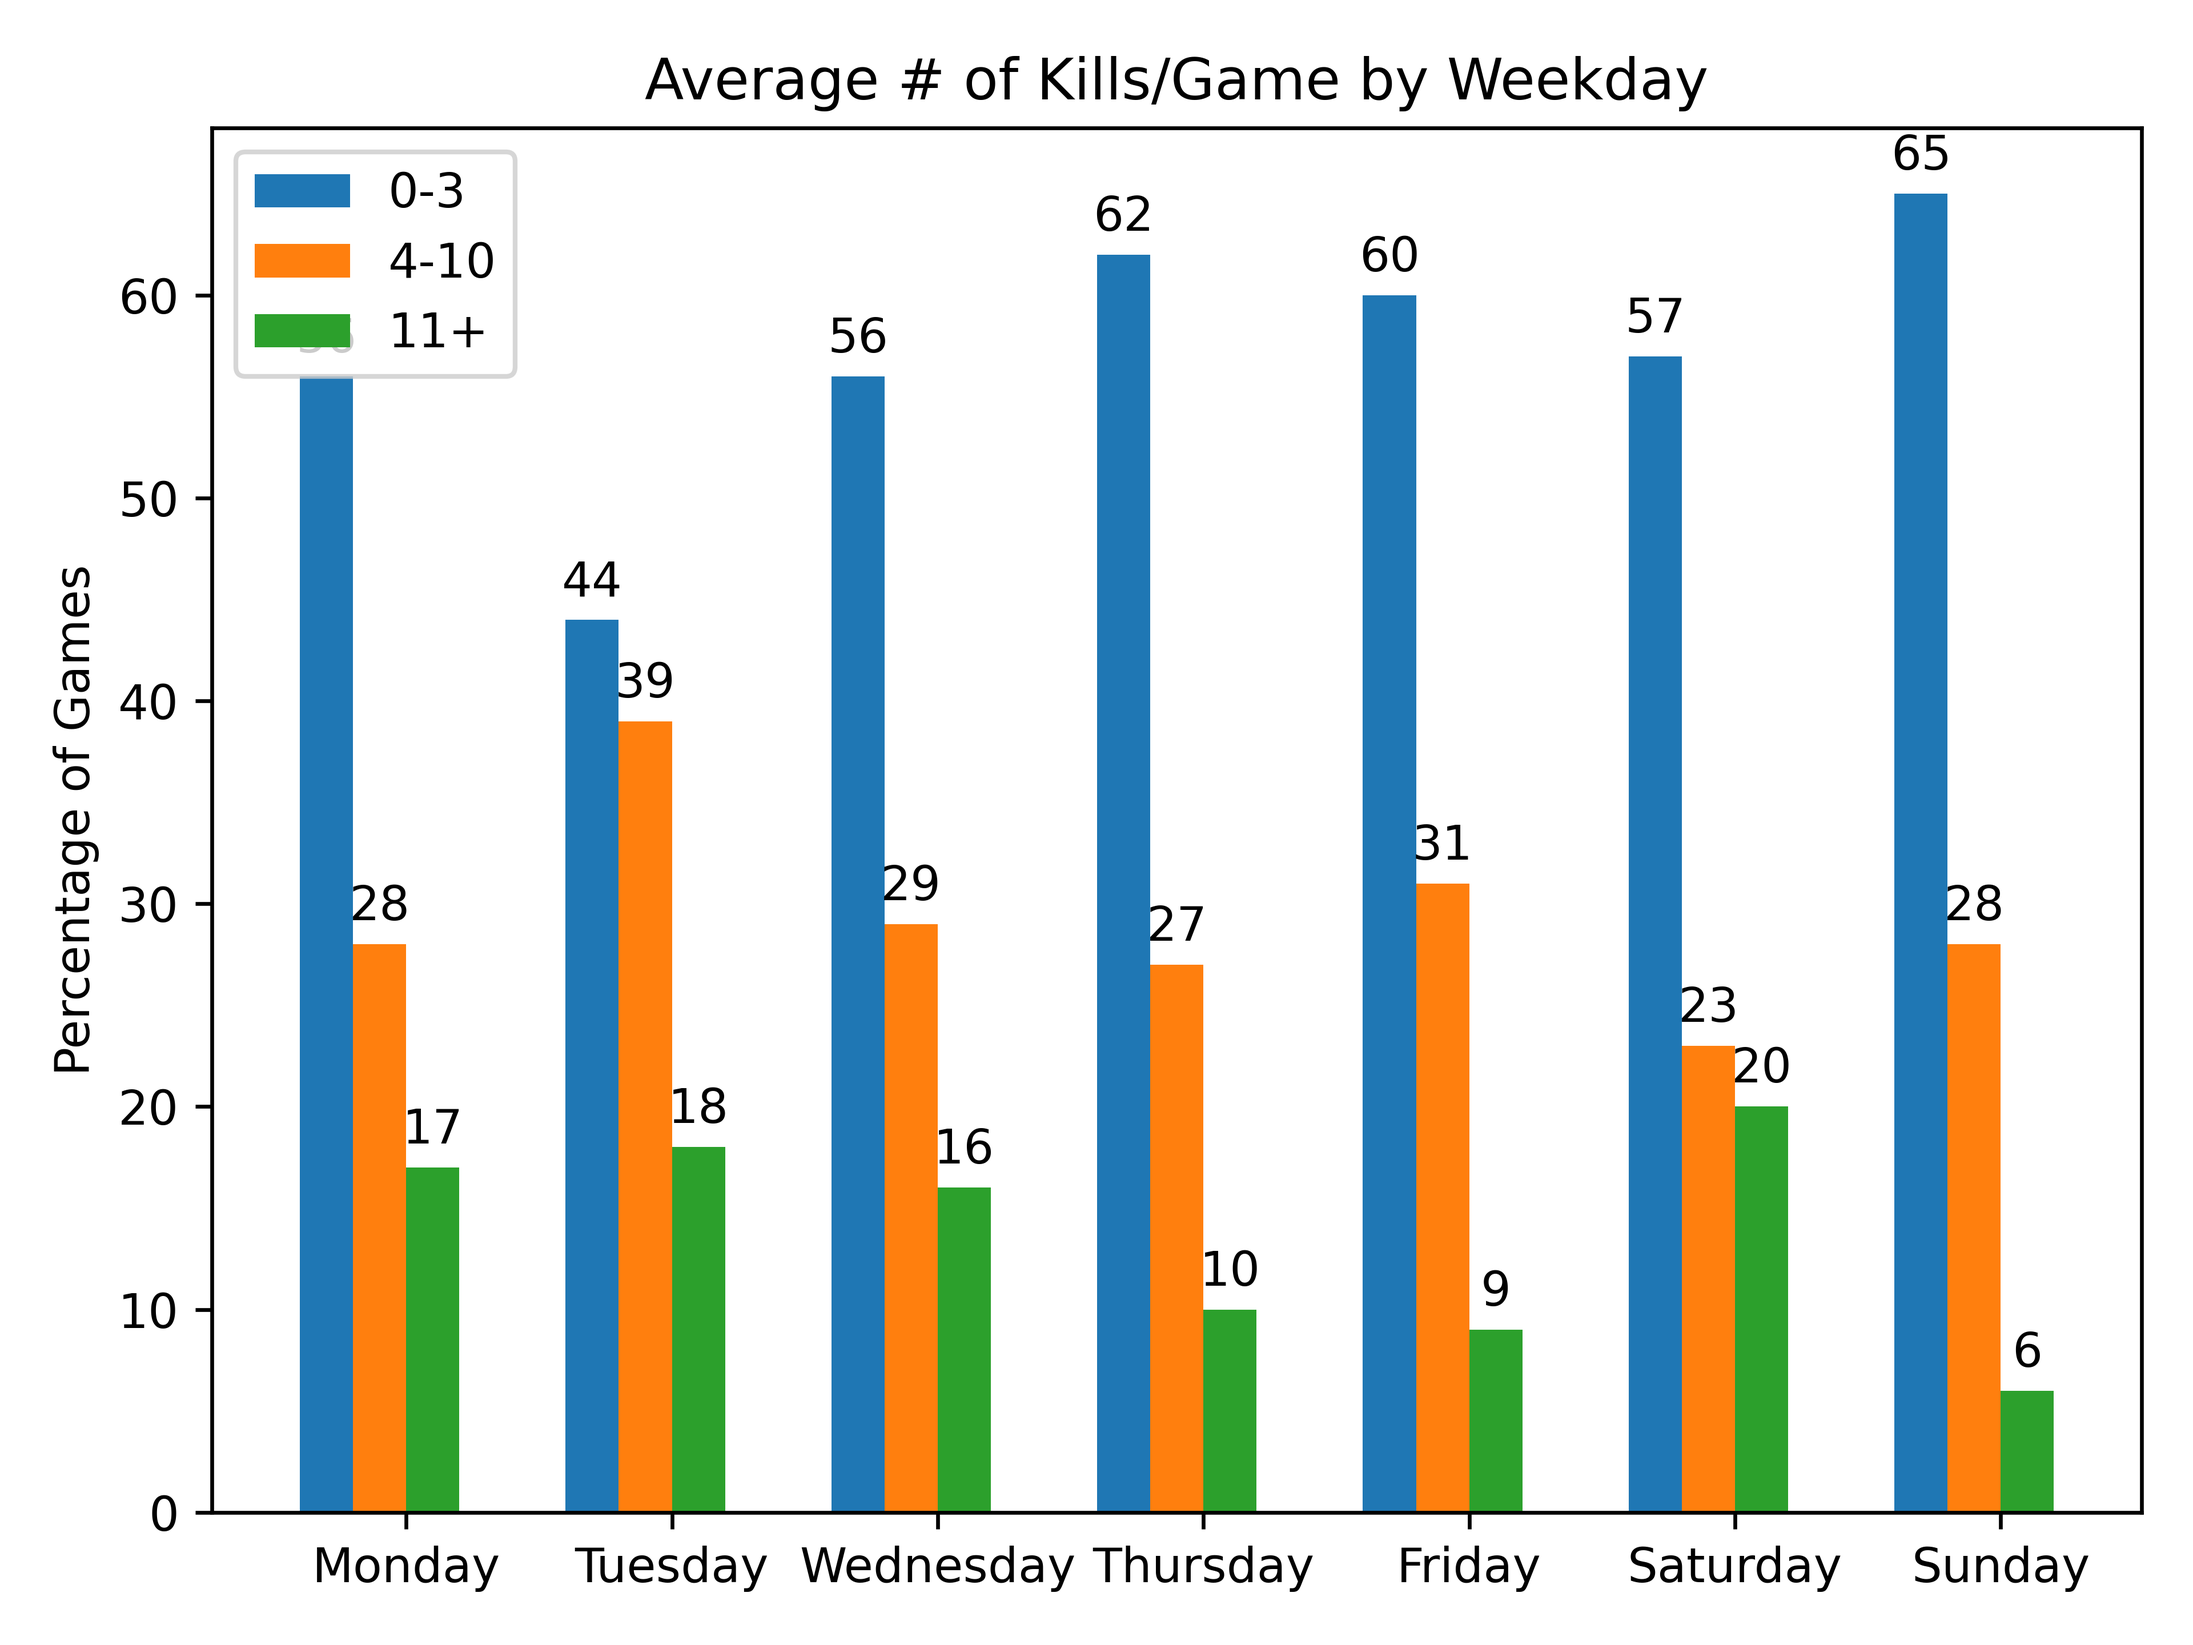
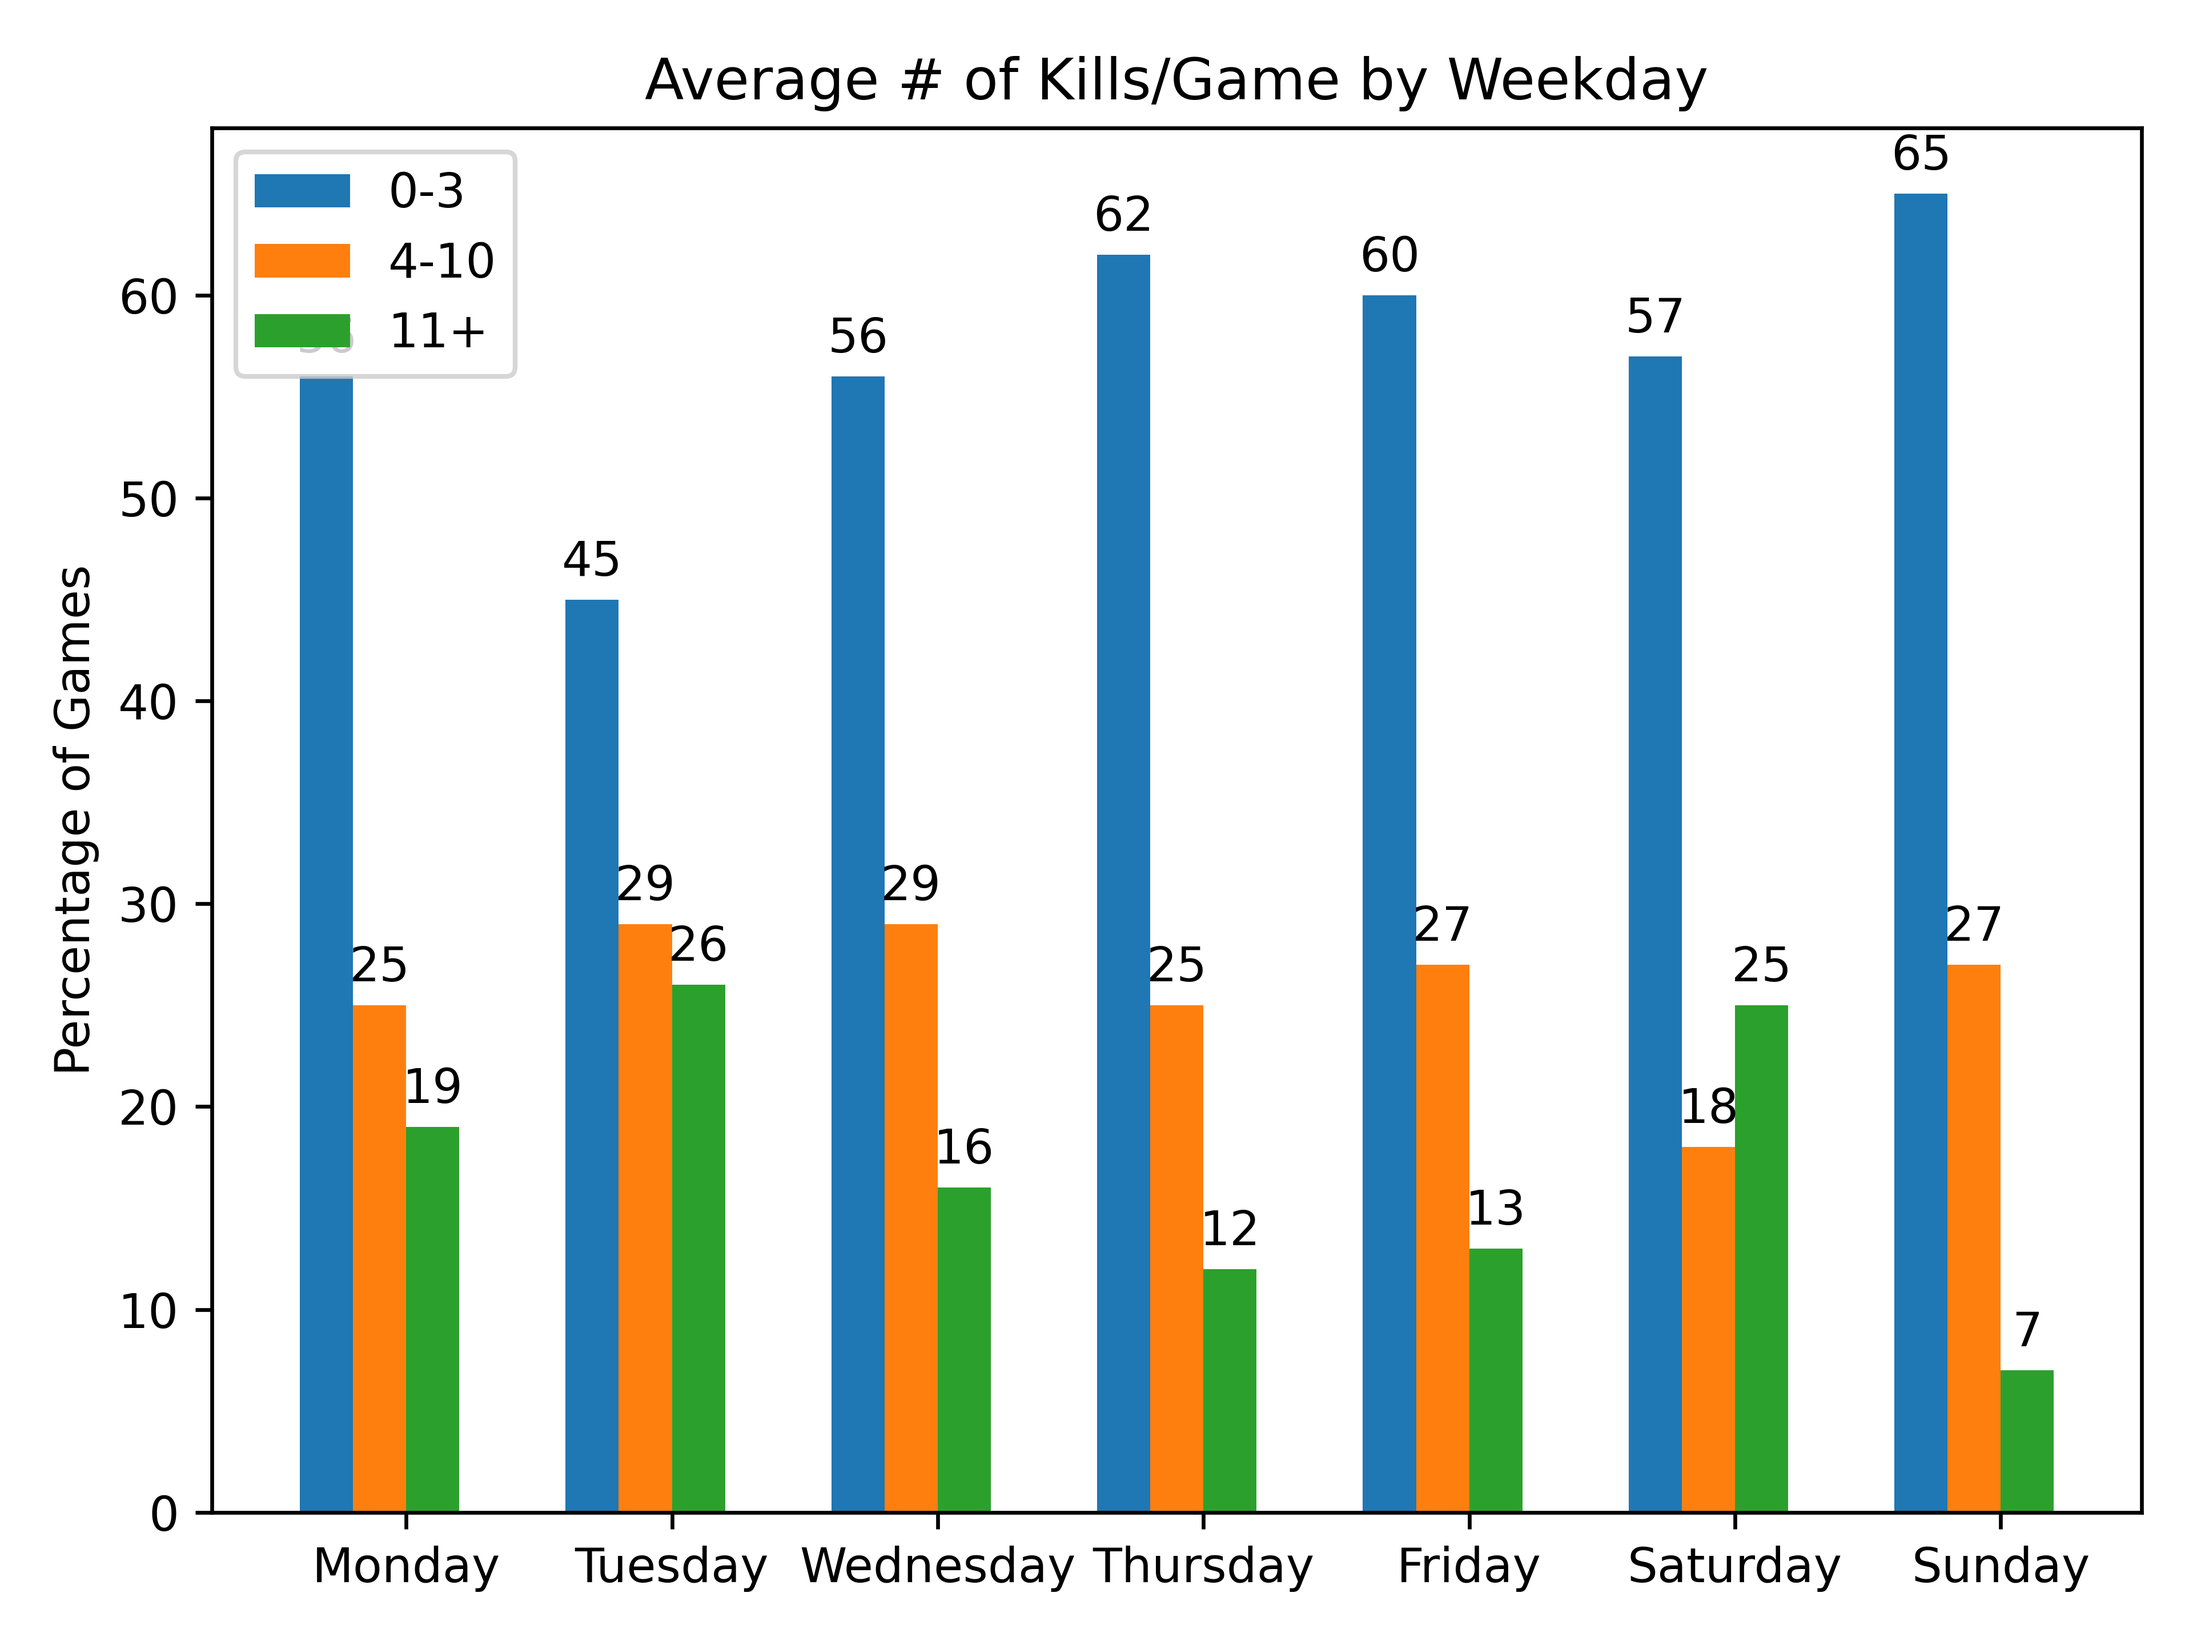
cutoff control, new map images, playercount in readme

diff --git a/babagstats.py b/babagstats.py
@@ -46,6 +46,17 @@ parser.add_argument('--dpi',
                     required=False,
                     help='plot dpi (default: 600)',
                     default=600)
+parser.add_argument('--cutoff1',
+                    type=int,
+                    required=False,
+                    help='Grouping cutoff 1 (default: 3)',
+                    default=3)
+parser.add_argument('--cutoff2',
+                    type=int,
+                    required=False,
+                    help='Grouping cutoff 2 (default: 10)',
+                    default=10)
+
 parser.add_argument(
     '--numgamesonmap',
     type=int,
@@ -57,6 +68,8 @@ parser.add_argument('--requesttimeout',
                     required=False,
                     help='api request timeout (default: 0.1)',
                     default=0.1)
+
+
 args = parser.parse_args()
 
 plot_dpi = args.dpi
@@ -81,16 +94,29 @@ mapNameTranslate = {
 }
 
 mapImgTranslate = {
-    "Baltic_Main": "Pubg_erangel_new.jpg",
-    "Chimera_Main": "",  # dont think this is used anymore
-    "Desert_Main": "Miramar_EN.webp",
-    "DihorOtok_Main": "Vikendi_Map.webp",
-    "Erangel_Main": "Pubg_erangel_new.jpg",  # looks the same 2 me
-    "Heaven_Main": "Heaven_Minimap.webp",
-    "Range_Main": "",  # tutorial map
-    "Savage_Main": "Sanhok-map.webp",
-    "Summerland_Main": "Karakin_Map.webp",
-    "Tiger_Main": "taego.jpg"
+    "Baltic_Main": "Erangel.webp",
+    "Chimera_Main": "Paramo.webp",
+    "Desert_Main": "Miramar.webp",
+    "DihorOtok_Main": "Vikendi.webp",
+    "Erangel_Main": "Erangel.webp",
+    "Heaven_Main": "Haven.webp",
+    "Range_Main": "Range.webp",
+    "Savage_Main": "Sanhok.webp",
+    "Summerland_Main": "Karakin.webp",
+    "Tiger_Main": "Taego.webp"
+}
+
+maxPlayersPerMap = {
+    "Baltic_Main": 100,
+    "Chimera_Main": 64,
+    "Desert_Main": 100,
+    "DihorOtok_Main": 100,
+    "Erangel_Main": 100,
+    "Heaven_Main": 32,
+    "Range_Main": 1,
+    "Savage_Main": 100,
+    "Summerland_Main": 64,
+    "Tiger_Main": 100
 }
 
 
@@ -140,6 +166,14 @@ def getKillsPerMap(gameList):
             game['participant']['stats']['combat']['kda']['kills'])
     return killsPerMap
 
+def killCategory(numKills):
+    if numKills <= args.cutoff1:
+        return 0
+    elif numKills < args.cutoff2:
+        return 1
+    else:
+        return 2
+    
 
 def getKillsPerWeekday(gameList):
     killsPerWeekday = {
@@ -153,13 +187,7 @@ def getKillsPerWeekday(gameList):
     }
     for game in gameList:
         curr_num_kills = game['participant']['stats']['combat']['kda']['kills']
-        curr_game_kills_type = -1
-        if curr_num_kills <= 3:
-            curr_game_kills_type = 0
-        elif curr_num_kills <= 10:
-            curr_game_kills_type = 1
-        else:
-            curr_game_kills_type = 2
+        curr_game_kills_type = killCategory(curr_num_kills)
         killsPerWeekday[datetime.strptime(
             game['started_at'],
             date_fmt).strftime('%A')].append(curr_game_kills_type)
@@ -181,9 +209,9 @@ def plotKillsPerWeekday(killsPerWeekday):
     x = np.arange(len(labels))
     width = 0.20
     fig, ax = plt.subplots()
-    rects1 = ax.bar(x - width * 1.5, type0games, width, label='0-3')
-    rects2 = ax.bar(x - width / 2, type1games, width, label='4-10')
-    rects3 = ax.bar(x + width / 2, type2games, width, label='11+')
+    rects1 = ax.bar(x - width * 1.5, type0games, width, label=f'0-{args.cutoff1}')
+    rects2 = ax.bar(x - width / 2, type1games, width, label=f'{args.cutoff1 + 1}-{args.cutoff2}')
+    rects3 = ax.bar(x + width / 2, type2games, width, label=f'{args.cutoff2 + 1}+')
     ax.set_ylabel('Percentage of Games')
     ax.set_title('Average # of Kills/Game by Weekday')
     ax.set_xticks(x, labels)
@@ -202,13 +230,7 @@ def getKillsPerHour(gameList):
         curr_game_date = datetime.strptime(game['started_at'], date_fmt)
         curr_game_hour = curr_game_date.hour
         curr_num_kills = game['participant']['stats']['combat']['kda']['kills']
-        curr_game_kills_type = -1
-        if curr_num_kills <= 3:
-            curr_game_kills_type = 0
-        elif curr_num_kills <= 10:
-            curr_game_kills_type = 1
-        else:
-            curr_game_kills_type = 2
+        curr_game_kills_type = killCategory(curr_num_kills)
         killsPerHour[curr_game_hour].append(curr_game_kills_type)
     return killsPerHour[18:23]  # streaming hours
 
@@ -225,9 +247,9 @@ def plotKillsPerHour(killsPerHour):
     x = np.arange(len(labels))
     width = 0.20
     fig, ax = plt.subplots()
-    rects1 = ax.bar(x - width * 1.5, type0games, width, label='0-3')
-    rects2 = ax.bar(x - width / 2, type1games, width, label='4-10')
-    rects3 = ax.bar(x + width / 2, type2games, width, label='11+')
+    rects1 = ax.bar(x - width * 1.5, type0games, width, label=f'0-{args.cutoff1}')
+    rects2 = ax.bar(x - width / 2, type1games, width, label=f'{args.cutoff1 + 1}-{args.cutoff2}')
+    rects3 = ax.bar(x + width / 2, type2games, width, label=f'{args.cutoff2 + 1}+')
     ax.set_ylabel('Percentage of Games')
     ax.set_title('Average # of Kills/Game by Stream Hour')
     ax.set_xticks(x, labels)
@@ -253,32 +275,32 @@ def genReadme(gameList):
         datetime.strptime(getNewestGame(gameList)['started_at'],
                           date_fmt).strftime('%b %d %Y') + ")\n")
     readme.write(
-        "|Map|Image| 0-3 | 4-10 | 11+ |\n| :-: | :-: | :-: | :--: | :-: |\n")
+        f"|Map|Image| 0-{args.cutoff1} | {args.cutoff1 + 1}-{args.cutoff2} | {args.cutoff2 + 1}+ |\n| :-: | :-: | :-: | :--: | :-: |\n")
     for gameMap in sorted(killsPerMap,
                           key=lambda k: len(killsPerMap[k]),
                           reverse=True):
         gameMapData = killsPerMap[gameMap]
         if (len(gameMapData) < num_games_on_map_cutoff):
             continue
-        zeroToThree = 0
-        SixToTen = 0
-        ElevenPlus = 0
+        firstCutoff = 0
+        secondCutoff = 0
+        thirdCutoff = 0
         for game in gameMapData:
             if game <= 3:
-                zeroToThree += 1
+                firstCutoff += 1
             elif game <= 10:
-                SixToTen += 1
+                secondCutoff += 1
             else:
-                ElevenPlus += 1
+                thirdCutoff += 1
         readme.write("| **" + mapNameTranslate[gameMap] + "<br>(" +
-                     str(len(gameMapData)) + " games)** | <img src=\"img/" +
+                     str(len(gameMapData)) + f" games)**<br><sub>{maxPlayersPerMap[gameMap]} Players</sub>| <img src=\"img/" +
                      mapImgTranslate[gameMap] +
                      "\" width=\"250\"/> | " +
-                     str(round(zeroToThree / len(gameMapData) * 100, 2)) +
+                     str(round(firstCutoff / len(gameMapData) * 100, 2)) +
                      "% | " +
-                     str(round(SixToTen / len(gameMapData) * 100, 2)) +
+                     str(round(secondCutoff / len(gameMapData) * 100, 2)) +
                      "% | " +
-                     str(round(ElevenPlus / len(gameMapData) * 100, 2)) +
+                     str(round(thirdCutoff / len(gameMapData) * 100, 2)) +
                      "% |\n")
     readme.write("\n|Kills By Weekday|Kills By Hour|\n| :-: | :-: |\n| <img src=\"data/killsPerWeekday.png\" width=\"325\"/> | <img src=\"data/killsPerHour.png\" width=\"325\"/> |\n")
     readme.close()

diff --git a/README.md b/README.md
@@ -1,14 +1,14 @@
 # Forsen BabaG Stats
-##### 661 Games (Mar 27 2022 - May 17 2022)
+##### 669 Games (Mar 27 2022 - May 17 2022)
 |Map|Image| 0-3 | 4-10 | 11+ |
 | :-: | :-: | :-: | :--: | :-: |
-| **Miramar<br>(193 games)** | <img src="img/Miramar_EN.webp" width="250"/> | 54.92% | 33.16% | 11.92% |
-| **Erangel (Remastered)<br>(166 games)** | <img src="img/Pubg_erangel_new.jpg" width="250"/> | 51.2% | 28.31% | 20.48% |
-| **Taego<br>(160 games)** | <img src="img/taego.jpg" width="250"/> | 57.5% | 27.5% | 15.0% |
-| **Karakin<br>(48 games)** | <img src="img/Karakin_Map.webp" width="250"/> | 77.08% | 20.83% | 2.08% |
-| **Sanhok<br>(47 games)** | <img src="img/Sanhok-map.webp" width="250"/> | 68.09% | 27.66% | 4.26% |
-| **Haven<br>(35 games)** | <img src="img/Heaven_Minimap.webp" width="250"/> | 57.14% | 37.14% | 5.71% |
-| **Vikendi<br>(12 games)** | <img src="img/Vikendi_Map.webp" width="250"/> | 58.33% | 25.0% | 16.67% |
+| **Miramar<br>(195 games)**<br><sub>100 Players</sub>| <img src="img/Miramar.webp" width="250"/> | 55.38% | 32.82% | 11.79% |
+| **Erangel (Remastered)<br>(166 games)**<br><sub>100 Players</sub>| <img src="img/Erangel.webp" width="250"/> | 51.2% | 28.31% | 20.48% |
+| **Taego<br>(162 games)**<br><sub>100 Players</sub>| <img src="img/Taego.webp" width="250"/> | 57.41% | 27.78% | 14.81% |
+| **Sanhok<br>(48 games)**<br><sub>100 Players</sub>| <img src="img/Sanhok.webp" width="250"/> | 68.75% | 27.08% | 4.17% |
+| **Karakin<br>(48 games)**<br><sub>64 Players</sub>| <img src="img/Karakin.webp" width="250"/> | 77.08% | 20.83% | 2.08% |
+| **Haven<br>(35 games)**<br><sub>32 Players</sub>| <img src="img/Haven.webp" width="250"/> | 57.14% | 37.14% | 5.71% |
+| **Vikendi<br>(15 games)**<br><sub>100 Players</sub>| <img src="img/Vikendi.webp" width="250"/> | 53.33% | 26.67% | 20.0% |
 
 |Kills By Weekday|Kills By Hour|
 | :-: | :-: |
